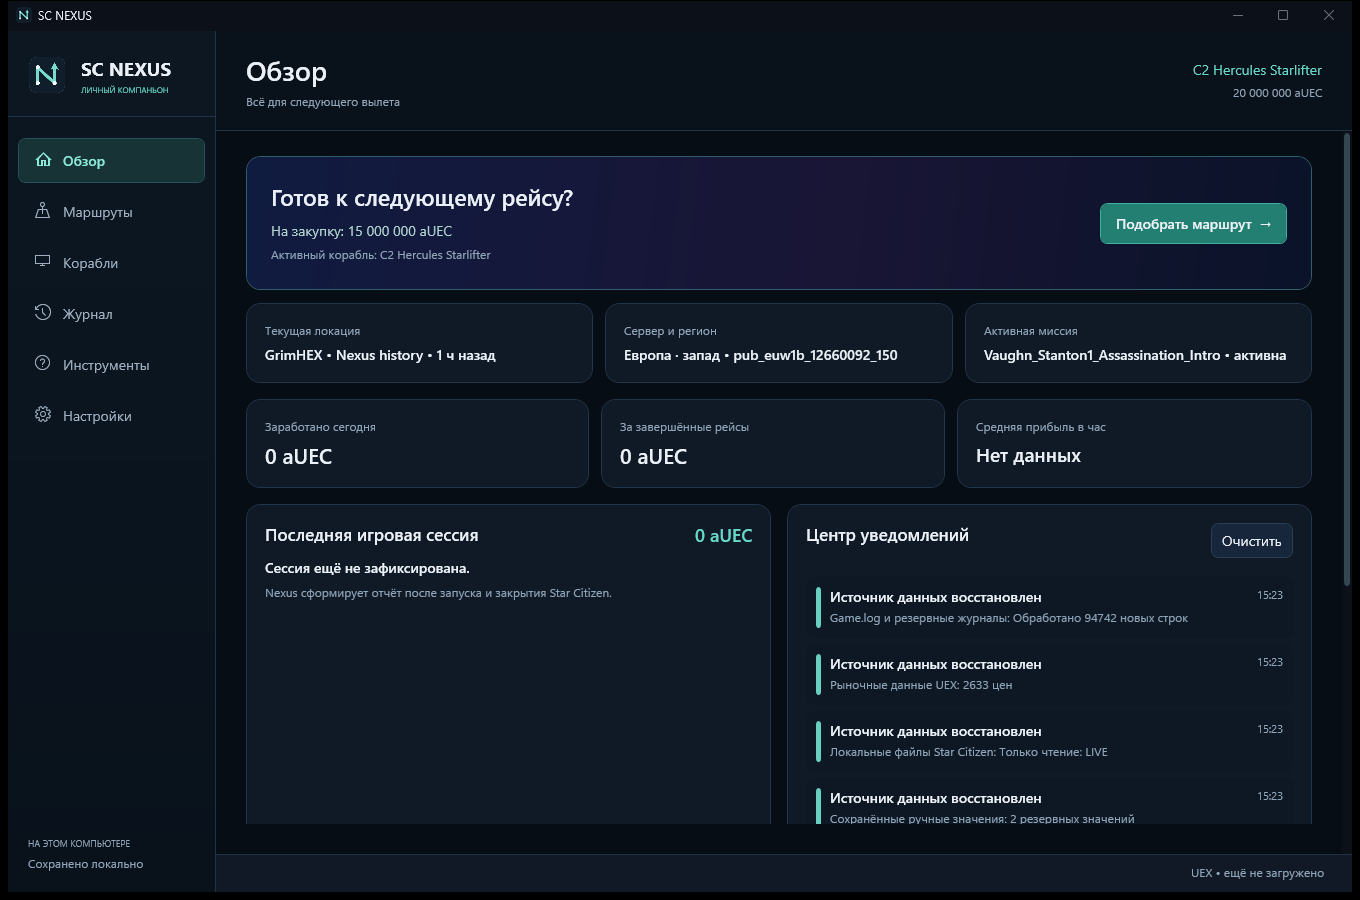
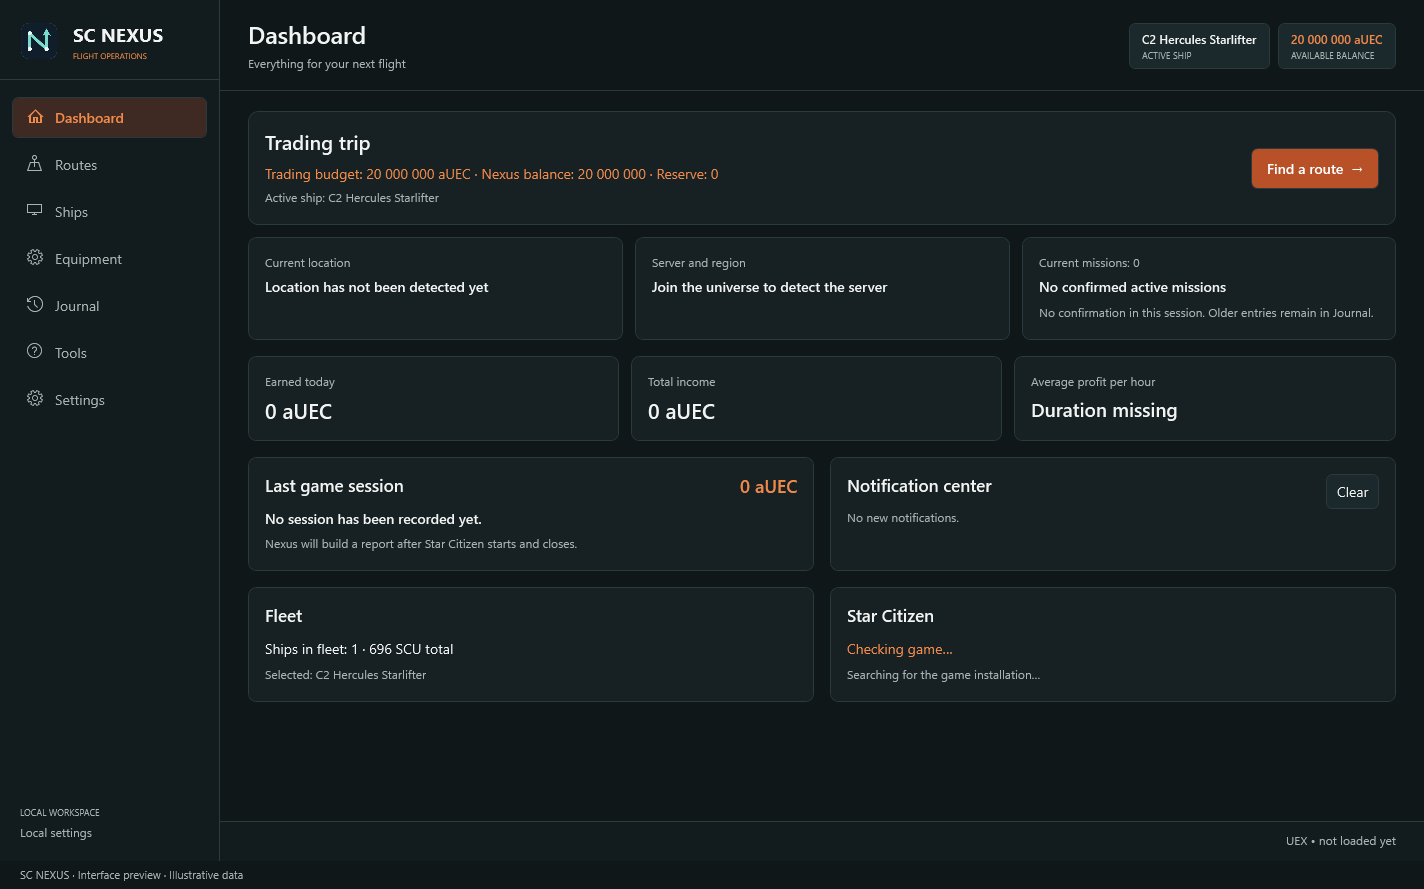
Update interface screenshots for 0.5.19

diff --git a/README.md b/README.md
@@ -31,10 +31,13 @@ The guiding principle is simple: use automatic data first and ask the player for
 
 **Contract earnings are optional.** Settings → General → “Include contract earnings in analytics” (also available in Journal). Turn it off to exclude contracts from total and hourly income while keeping saved records. Automatic reward detection is not guaranteed for every contract; verify catalog amounts before saving. Wallet balance is unaffected.
 
-The current source adds light and dark themes (Settings → General → Light theme). Routes use a sortable table with commodity illustrations, search, numeric columns and a selected-route inspector. Additional filters are collapsed; Pyro/NQA warnings use both text and an icon. On narrow windows the inspector moves below the table.
+The interface uses one compact flight-operations layout in both themes: persistent navigation, a status header for the active ship and balance, dense workspaces, and one restrained accent colour. Routes use a sortable commodity-and-path table with investment, profit, and confirmed Pyro/NQA risk. The selected-route inspector stays focused on the actionable details; on narrow windows it moves below the table.
 
 Contract payouts can be looked up by the definition ID recorded in Game.log using SC Wiki. A catalog reward is an estimate for the displayed game version, never a confirmed payment. Missing rewards remain unknown; a returned range is not converted into a single amount. The actual payout must be confirmed before it enters analytics. Acceptance and completion timestamps fill duration when both are available.
 
+<p align="center">
+  <img src="docs/screenshots/dashboard.png" width="94%" alt="English flight-operations dashboard — dark theme">
+</p>
 <p align="center">
   <img src="docs/screenshots/routes-dark-en.png" width="94%" alt="English route planner — dark theme">
 </p>
@@ -42,7 +45,7 @@ Contract payouts can be looked up by the definition ID recorded in Game.log usin
   <img src="docs/screenshots/routes-light-en.png" width="48%" alt="English route planner — light theme">
   <img src="docs/screenshots/settings-en.png" width="48%" alt="English settings and optional contract earnings">
 </p>
-<p align="center"><em>English interface: dark and light routes, plus the optional contract-earnings setting. Screenshots are rendered from the application using illustrative data, not live market quotes.</em></p>
+<p align="center"><em>English interface: dashboard, dark and light routes, plus the optional contract-earnings setting. Screenshots are rendered from the application using illustrative data, not live market quotes.</em></p>
 
 ## Features
 
